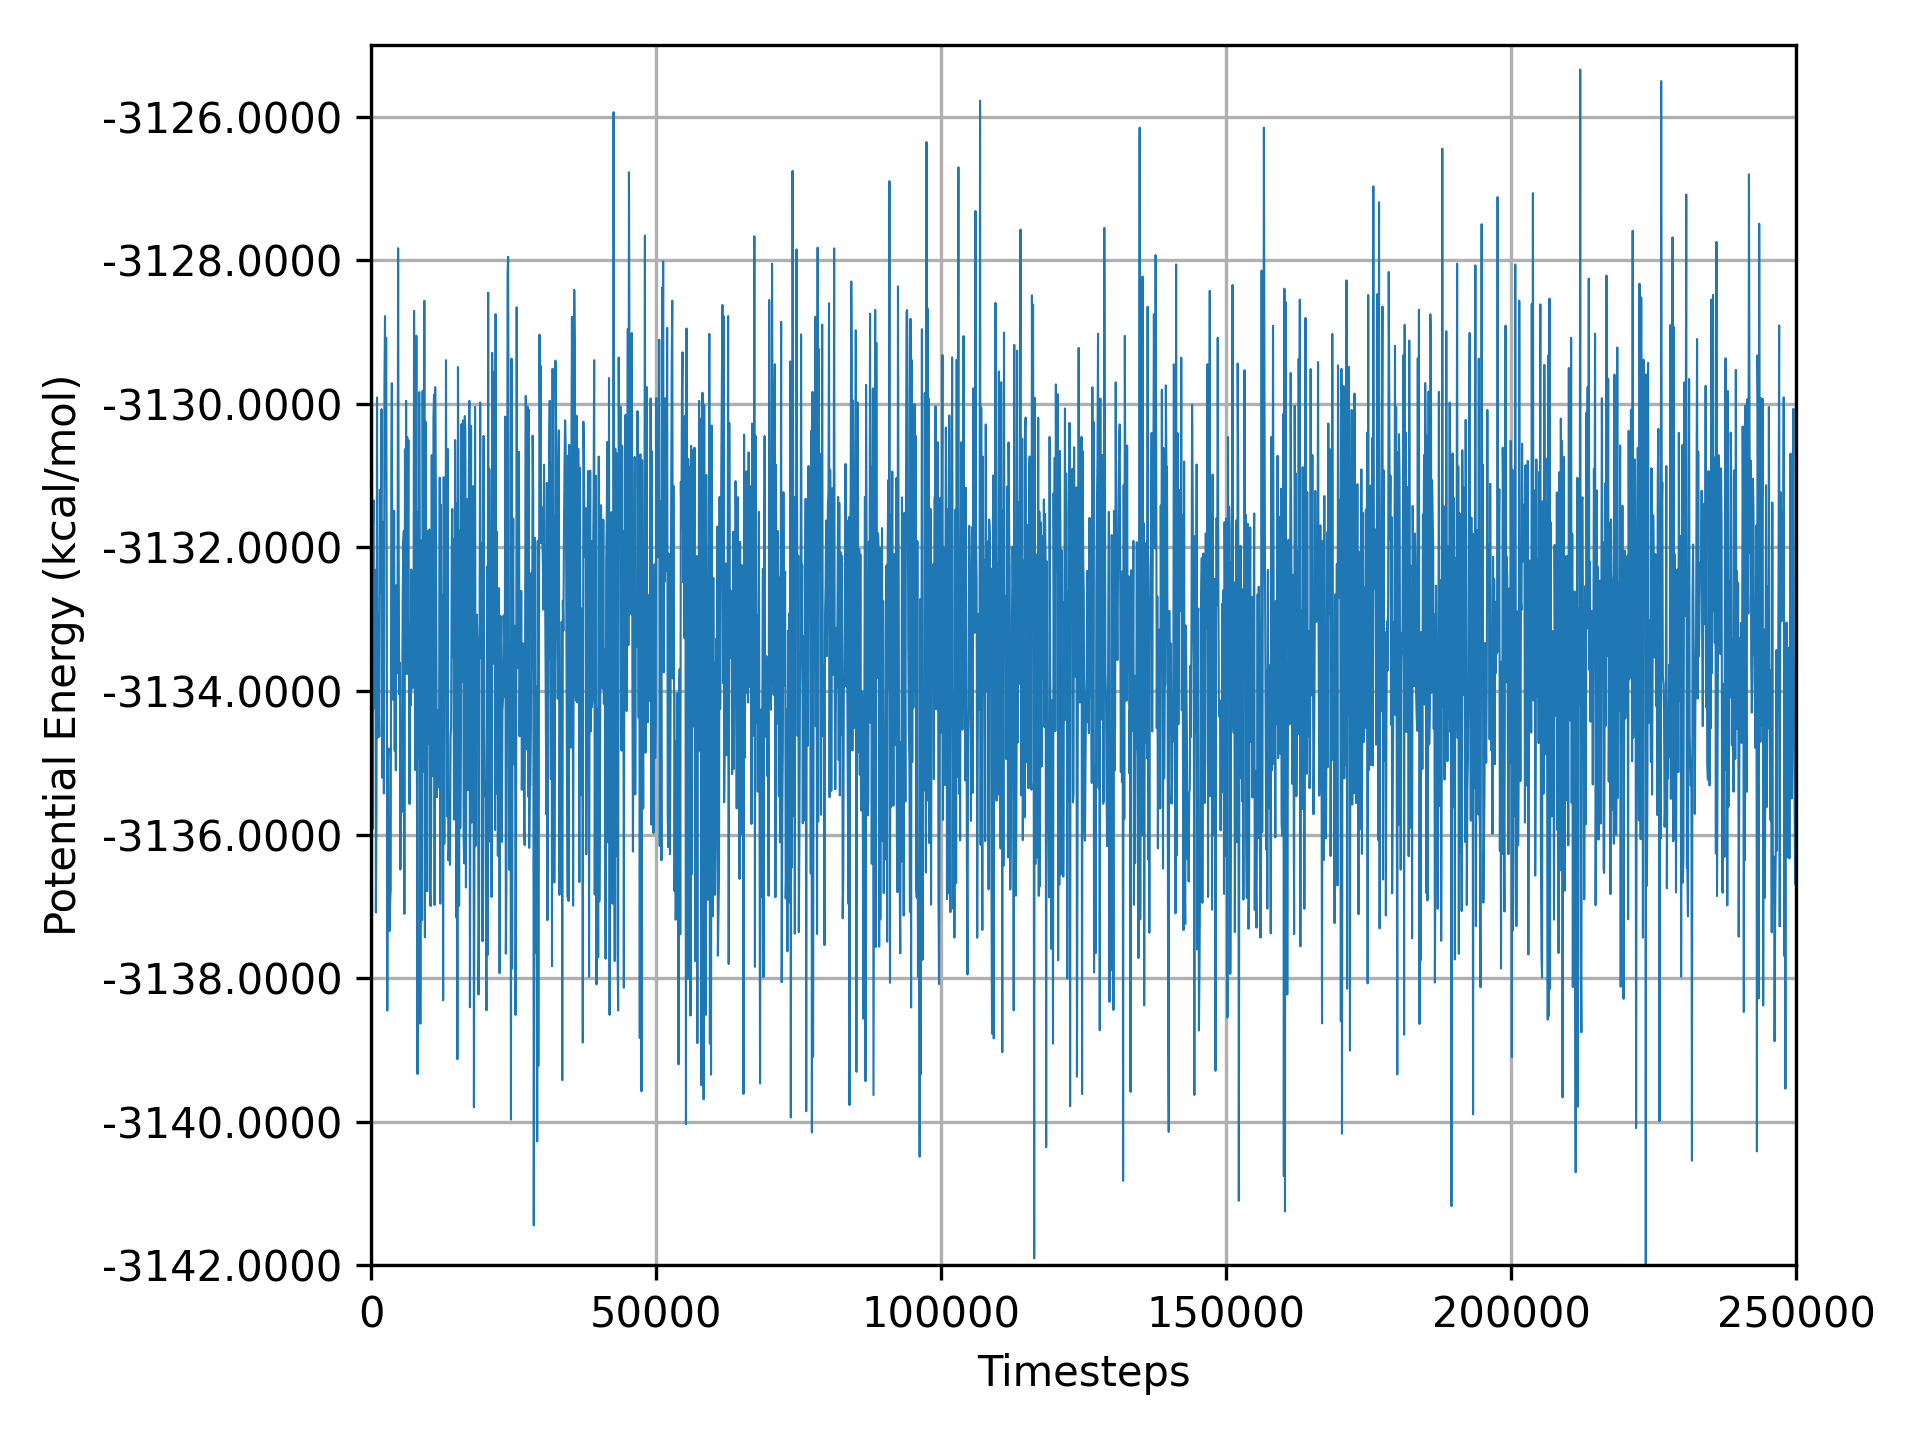
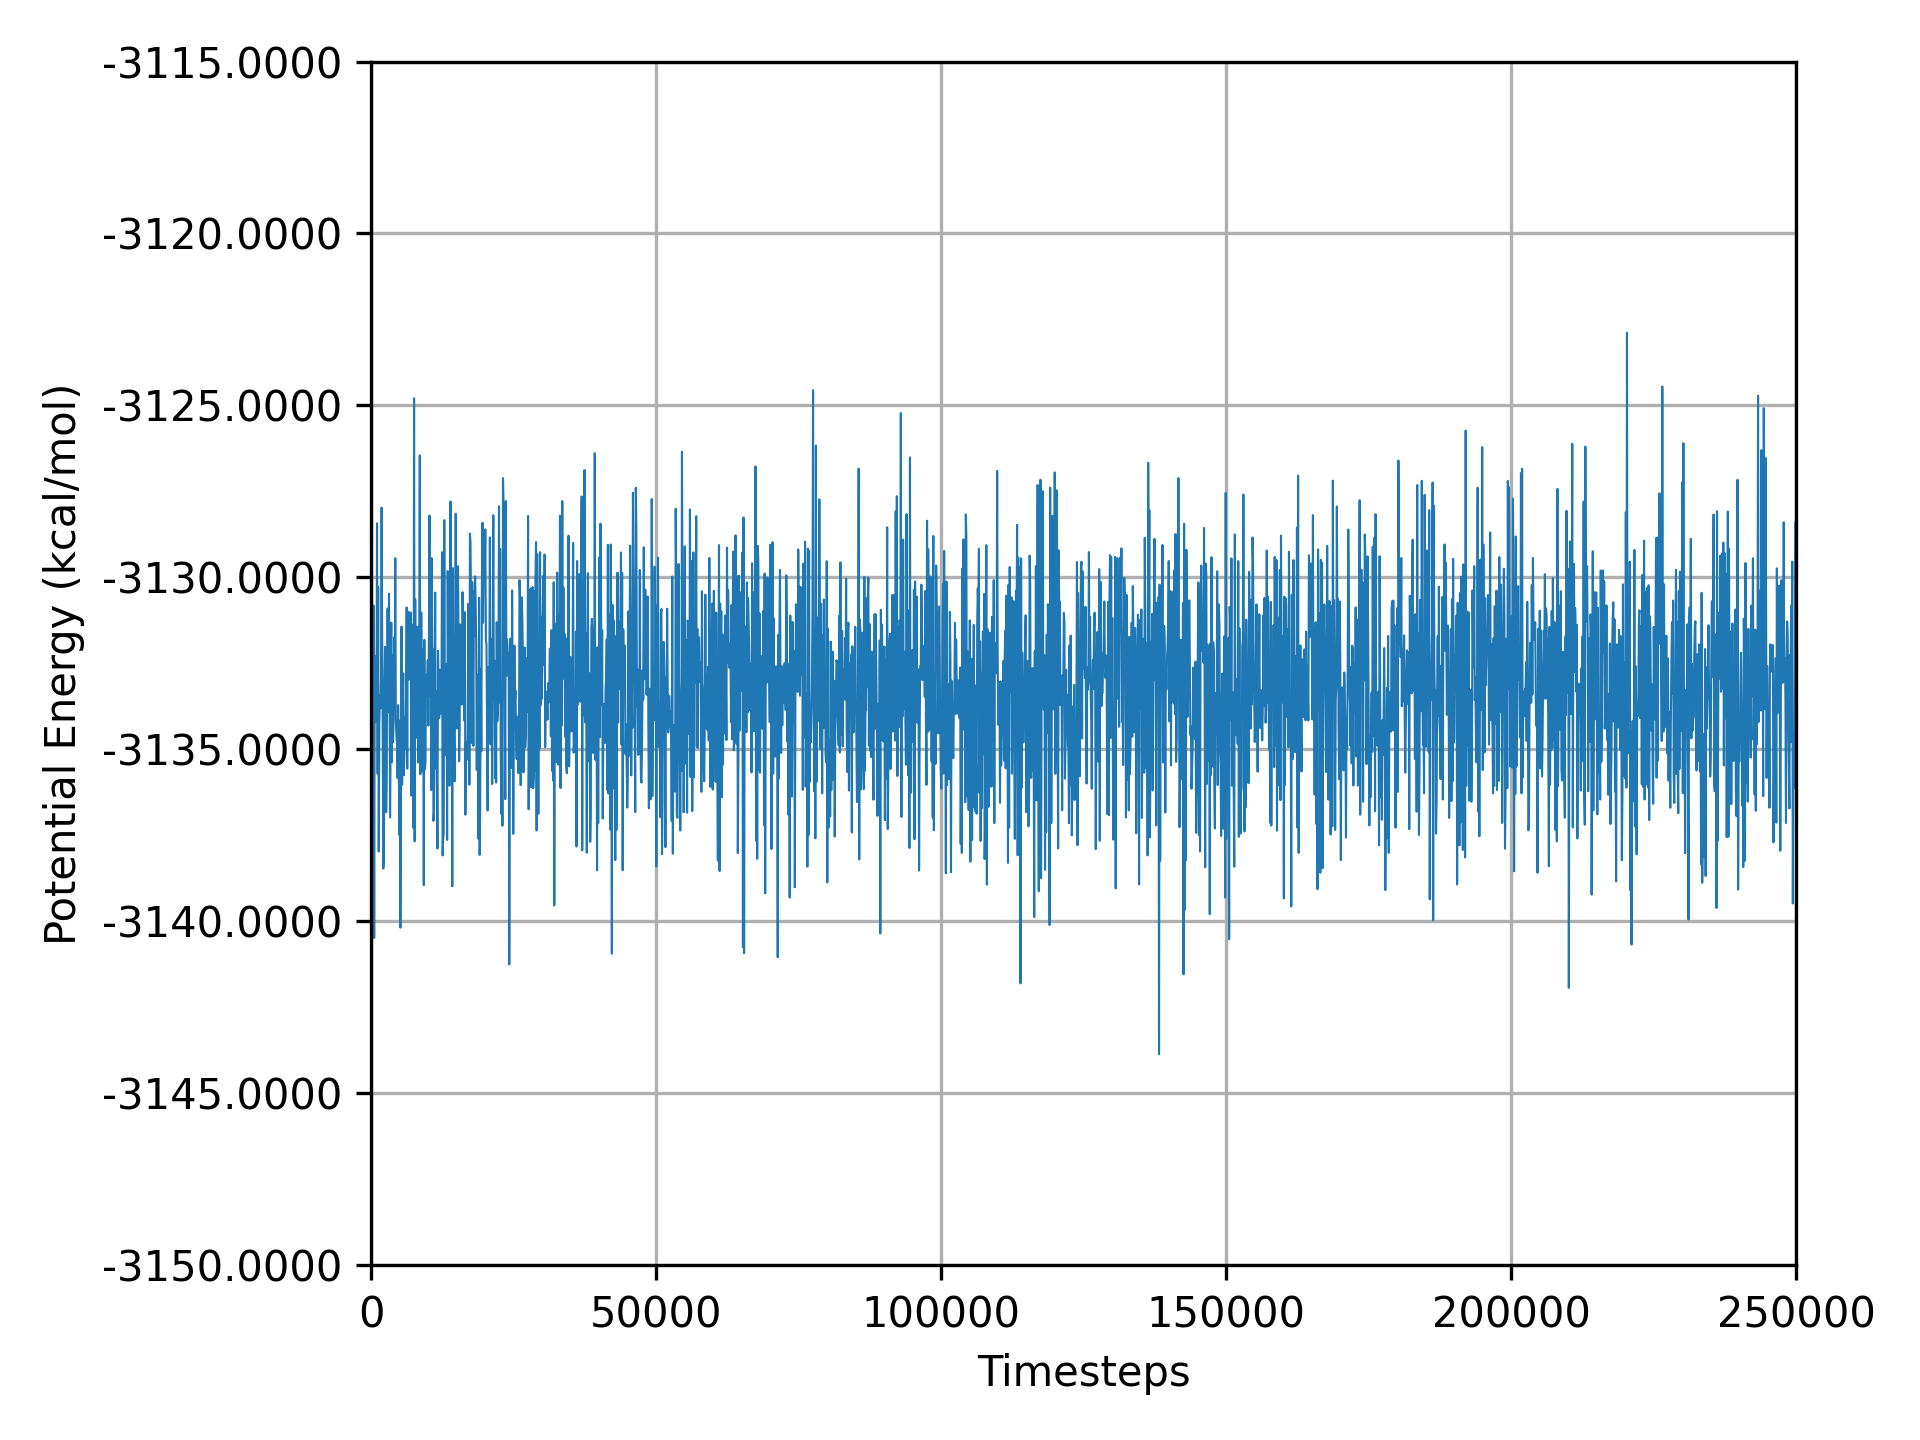
Update nve example visualization

diff --git a/scripts/nve-analyze.py b/scripts/nve-analyze.py
@@ -16,7 +16,7 @@ if __name__ == "__main__":
     fig, ax = plt.subplots()
     ax.plot(logged_steps, energies, linewidth=0.5)
     ax.set_xlim((0, TIMESTEPS))
-    ax.set_ylim((-3142, -3125))
+    ax.set_ylim((-3150, -3115))
 
     ax.set_xlabel("Timesteps")
     ax.set_ylabel("Potential Energy (kcal/mol)")
